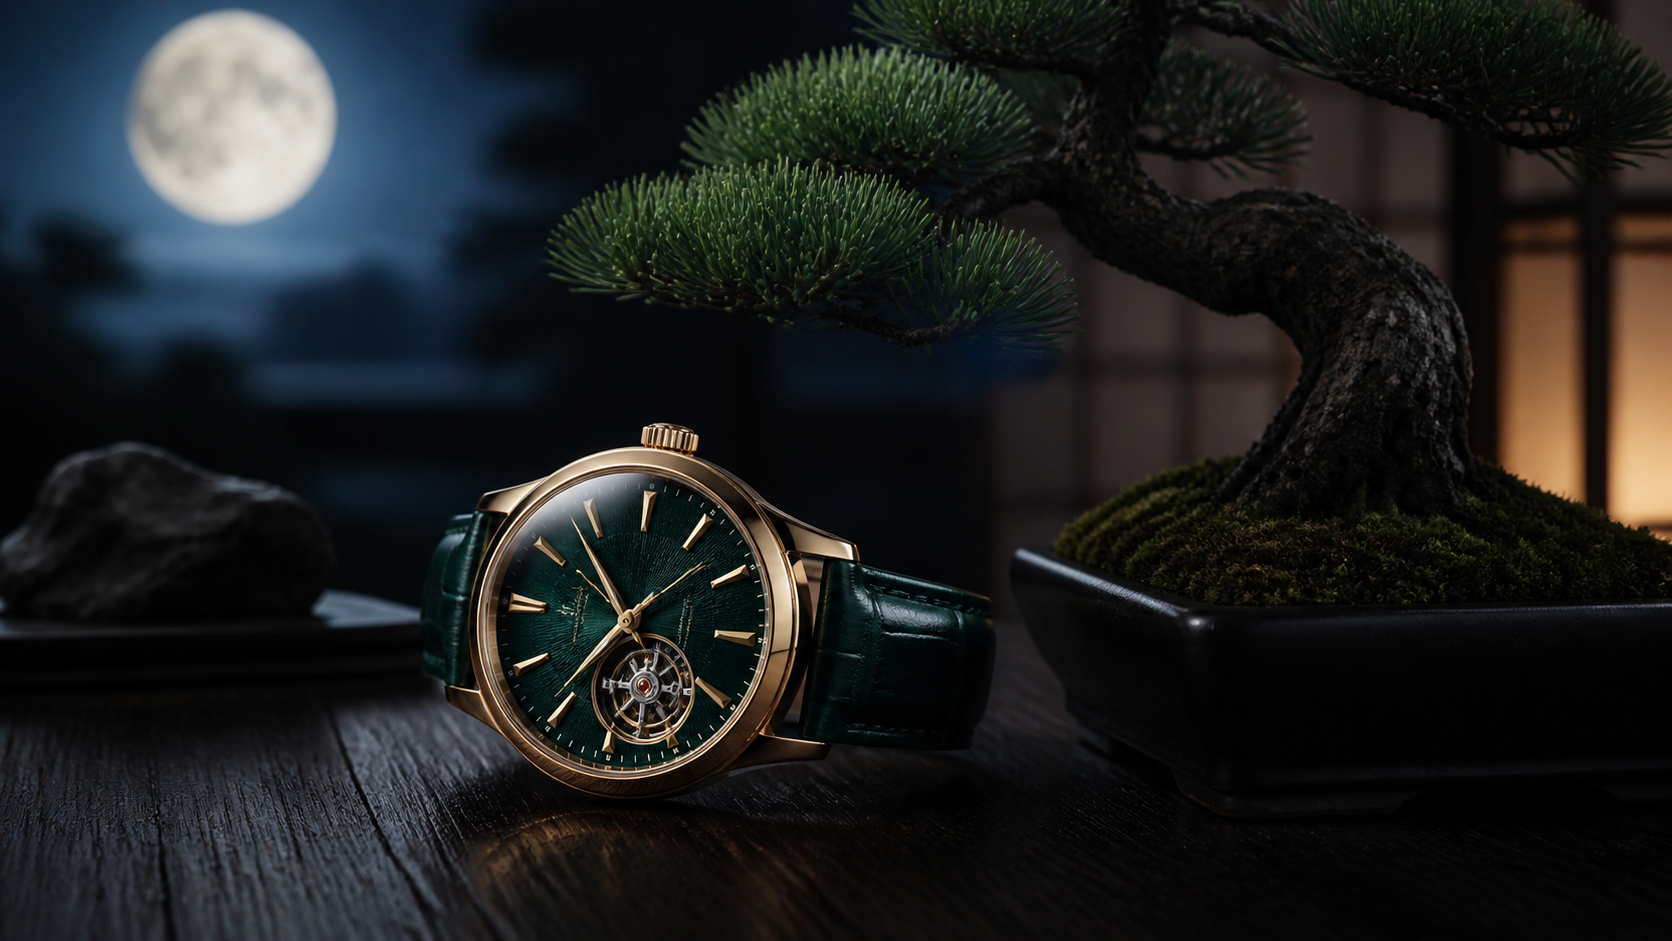
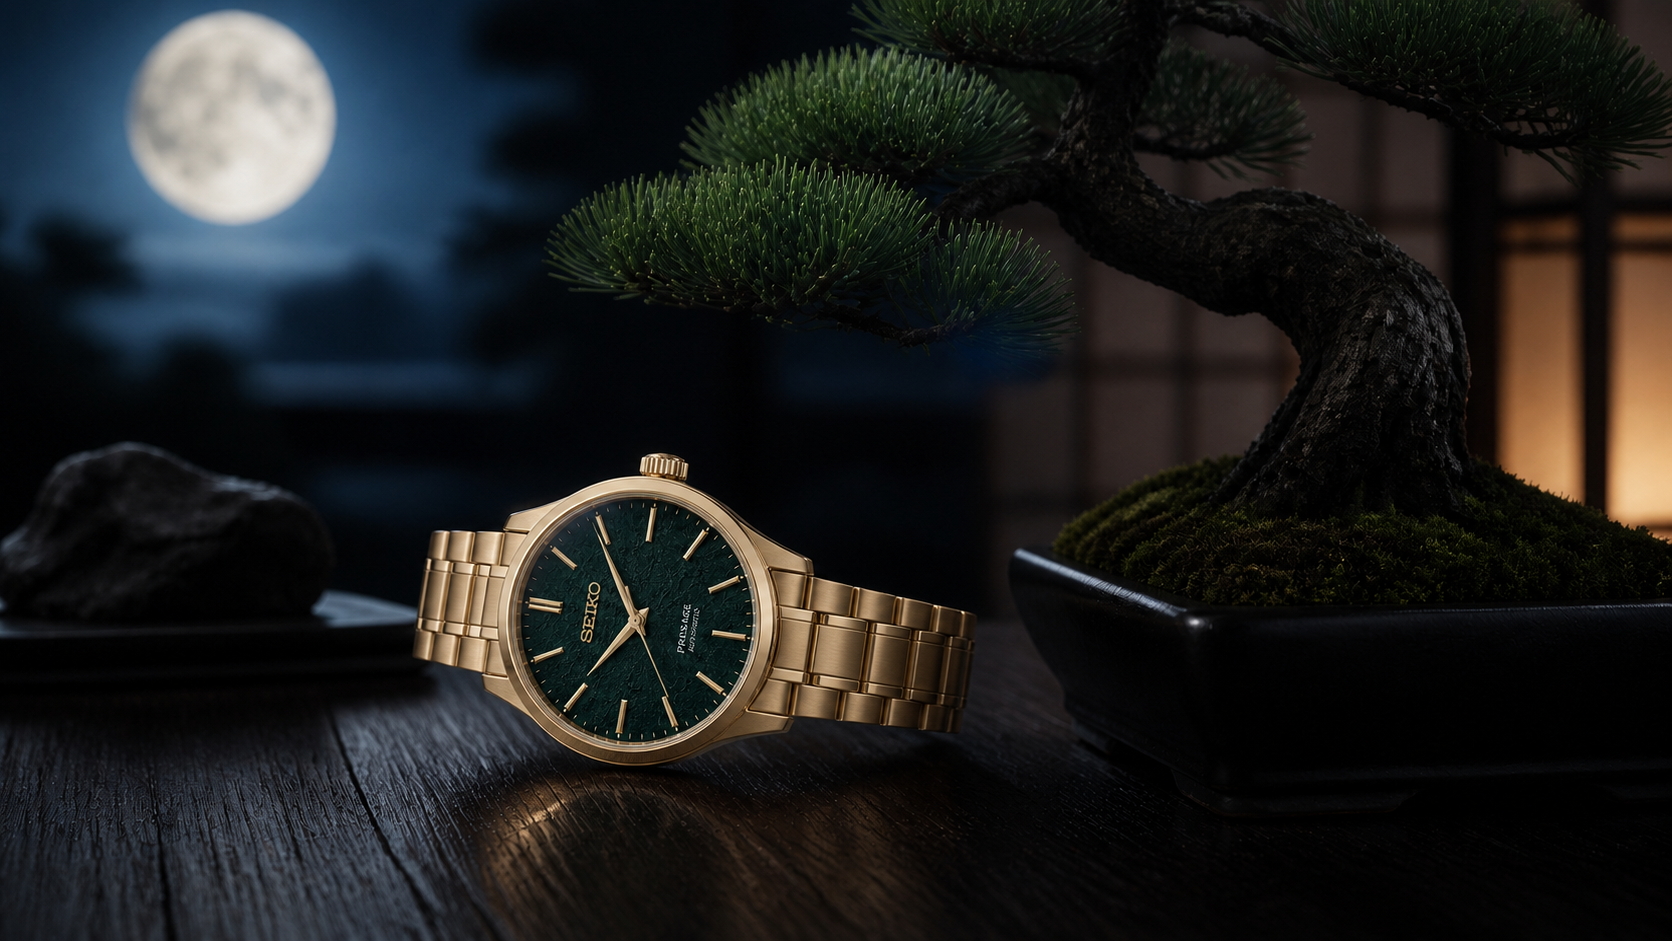
Replace Seiko bonsai article images

diff --git a/articles/seiko-presage-bonsai/index.html b/articles/seiko-presage-bonsai/index.html
@@ -27,7 +27,7 @@
   <style>
     :root{color-scheme:dark;--bg:#0a1514;--panel:#102422;--toc:#19332d;--text:#f1ebdc;--muted:#c5c1ad;--line:#bb9350;--accent:#d6ad68}*{box-sizing:border-box}html{scroll-behavior:smooth}body{margin:0;background:linear-gradient(180deg,#08100f,#10221d 45%,#08100f);color:var(--text);font-family:"Yu Gothic UI","Yu Gothic",Meiryo,sans-serif;font-size:17px;line-height:1.95;overflow-wrap:anywhere}main{width:min(940px,calc(100% - 32px));margin:auto;padding:30px 0 64px}.badge{display:inline-block;border:1px solid var(--line);border-radius:999px;padding:5px 13px;color:var(--accent);font-weight:700}.article-title{font-size:clamp(30px,5vw,52px);line-height:1.35;margin:24px 0}.article-content h2{font-size:clamp(23px,3vw,31px);line-height:1.5;margin:52px 0 14px;border-left:5px solid var(--accent);border-bottom:1px solid rgba(187,147,80,.55);padding:0 0 8px 15px}.hero,.media{margin:26px 0 12px}.hero img,.media img{display:block;width:100%;height:auto;aspect-ratio:auto;object-fit:contain;background:#07110f;border-radius:16px;border:1px solid var(--line);box-shadow:0 24px 64px rgba(0,0,0,.46)}figcaption{color:var(--muted);font-size:14px;line-height:1.7;margin-top:9px}.lead,.notice{background:var(--panel);border:1px solid rgba(187,147,80,.8);border-radius:14px;padding:24px;margin:28px 0}.toc{background:var(--toc);border:1px solid rgba(187,147,80,.7);border-radius:14px;padding:20px 24px;margin:28px 0}.toc strong{display:block;color:var(--accent);font-size:20px}.toc ol{margin:10px 0 0;padding-left:24px}.toc li{margin:5px 0}.facts{display:grid;grid-template-columns:repeat(3,1fr);gap:12px;margin:30px 0}.fact{background:var(--toc);border:1px solid rgba(187,147,80,.55);border-radius:12px;padding:17px}.fact strong{display:block;color:var(--muted);font-size:14px}.fact span{display:block;color:var(--accent);font-size:22px;font-weight:800}.fact small{color:var(--muted)}a{color:var(--accent);text-underline-offset:3px}.sources li,.related li{margin-bottom:9px}.contact-box{margin-top:38px;padding:22px;background:#30251c;border:1px solid rgba(214,173,104,.6);border-radius:14px}.contact-box strong{color:var(--accent)}.note{color:var(--muted);font-size:14px}@media(max-width:700px){body{font-size:16px}.facts{grid-template-columns:1fr}.lead,.notice{padding:18px}main{width:min(100% - 22px,940px)}.article-title{font-size:clamp(28px,8.5vw,40px)}}
   </style>
-  <script type="application/ld+json">{"@context":"https://schema.org","@type":"Article","headline":"盆栽の美しさを腕元に。セイコー プレザージュ×TRADMAN'S BONSAIを公式情報で確認","description":"セイコー プレザージュ HCC011JとTRADMAN'S BONSAIの国内600本限定モデルを、発売日、価格、仕様とともに紹介します。","datePublished":"2026-08-28","dateModified":"2026-08-28","inLanguage":"ja-JP","mainEntityOfPage":{"@type":"WebPage","@id":"https://www.axis-jp.net/articles/seiko-presage-bonsai/"},"image":["https://www.axis-jp.net/articles/seiko-presage-bonsai/seiko-presage-bonsai-ai-hero.png","https://www.axis-jp.net/articles/seiko-presage-bonsai/seiko-presage-bonsai-ai-inline.png"],"author":{"@type":"Organization","name":"ろぶーの気になる事"},"publisher":{"@type":"Organization","name":"ろぶーの気になる事","url":"https://www.axis-jp.net/"}}
+  <script type="application/ld+json">{"@context":"https://schema.org","@type":"Article","headline":"盆栽の美しさを腕元に。セイコー プレザージュ×TRADMAN'S BONSAIを公式情報で確認","description":"セイコー プレザージュ HCC011JとTRADMAN'S BONSAIの国内600本限定モデルを、発売日、価格、仕様とともに紹介します。","datePublished":"2026-08-28","dateModified":"2026-08-30","inLanguage":"ja-JP","mainEntityOfPage":{"@type":"WebPage","@id":"https://www.axis-jp.net/articles/seiko-presage-bonsai/"},"image":["https://www.axis-jp.net/articles/seiko-presage-bonsai/seiko-presage-bonsai-ai-hero.png","https://www.axis-jp.net/articles/seiko-presage-bonsai/seiko-presage-bonsai-ai-inline.png"],"author":{"@type":"Organization","name":"ろぶーの気になる事"},"publisher":{"@type":"Organization","name":"ろぶーの気になる事","url":"https://www.axis-jp.net/"}}
   </script>
   <script defer src="/assets/js/shared-shell.js?v=20260828-2"></script>
 </head>
@@ -49,7 +49,7 @@
       <h2 id="design">黒松と松葉色をどう表現したのか</h2>
       <p>このモデルの着想源は、月明かりに照らされた黒松の盆栽です。文字盤には、長い歳月を重ねた松の古木の表情をモチーフにした型打ち模様を採用。色には、伝統色として知られる松葉色を使っています。</p>
       <p>セイコーの説明では、月の輝きをケースとブレスレットのゴールドカラーで表現しています。落ち着いた深い緑と金色の組み合わせなので、盆栽をそのまま文字盤へ描くのではなく、素材と色で景色を思わせるつくりです。</p>
-      <figure class="media"><img src="seiko-presage-bonsai-ai-inline.png" alt="月明かりの黒松盆栽と緑文字盤の金色腕時計を表現したAI生成イメージ" width="1672" height="941"><figcaption>月夜の黒松と、掲載モデルの意匠を参考にした腕時計のAI生成イメージです。公式商品写真ではありません。</figcaption></figure>
+      <figure class="media"><img src="seiko-presage-bonsai-ai-inline.png" alt="月明かりの黒松盆栽と金色腕時計の裏面を表現したAI生成イメージ" width="1672" height="941"><figcaption>月夜の黒松と、掲載モデルの裏ぶた意匠を参考にした腕時計のAI生成イメージです。公式商品写真ではありません。</figcaption></figure>
       <h2 id="specs">機械式時計としての仕様</h2>
       <p>ムーブメントは、手巻きにも対応する自動巻きのキャリバー6R51です。最大巻上時の持続時間は約72時間。ケースはステンレススチールで、ケース径は38.0mm、厚さは12.9mm、重さは135gです。</p>
       <p>ガラスはデュアルカーブサファイアで、内面無反射コーティングを備えます。防水は10気圧、耐磁性能も案内されています。裏ぶたはシースルー・スクリューバック仕様で、限定モデルの表記とシリアルナンバーが入ります。</p>
